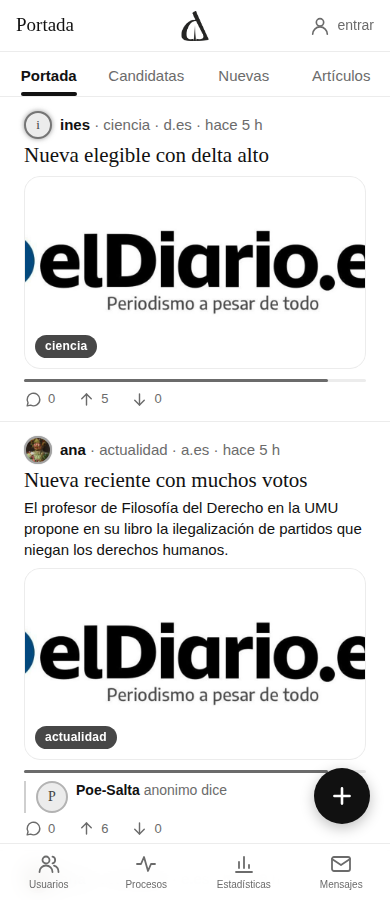
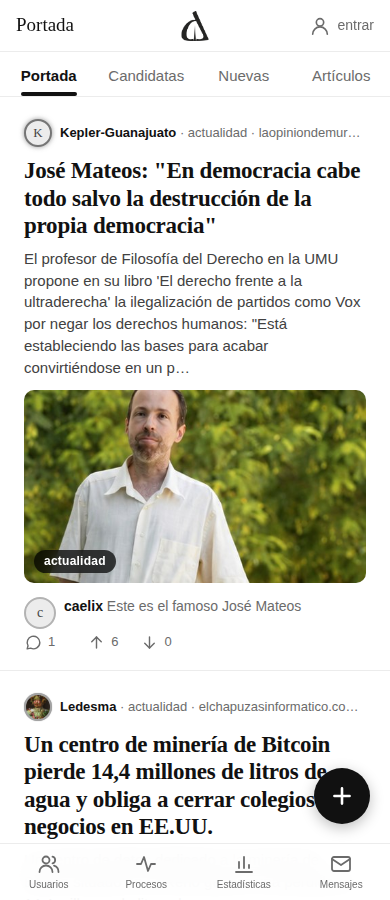
skins2

diff --git a/public/css/ddd.css b/public/css/ddd.css
@@ -285,26 +285,40 @@ main > .composer:last-of-type { border-bottom: 0; border-top: 1px solid var(--li
 
 /* =====================================================================
    PLANTILLAS VISUALES  (html[data-skin=...])  — elegibles en /perfil.php
-   La base (todo lo de arriba) es «editorial»; las demas la sobrescriben.
+   La base (todo lo de arriba) es la version original; las cuatro la modulan
+   en densidad, jerarquia y forma de separar una noticia de otra.
    ===================================================================== */
-.dval { display: none; }                       /* δ en vivo: solo lo muestra Delta */
+.dval { display: none; }
 form.plain .hint { font-size: 12px; color: var(--muted); margin-top: -4px; }
 form.plain .hint a { text-decoration: underline; text-underline-offset: 2px; }
 
-/* ---- Editorial: la clasica con mas aire a los lados ---- */
-[data-skin="editorial"] .post.full, [data-skin="editorial"] .post.compact { padding: 14px 24px 12px; }
-[data-skin="editorial"] .post.full h2 { font-size: 21px; }
-[data-skin="editorial"] .fz, [data-skin="editorial"] .notice, [data-skin="editorial"] .end, [data-skin="editorial"] .hilo .post.main { padding-left: 24px; padding-right: 24px; }
-[data-skin="editorial"] .notice { margin-left: 24px; margin-right: 24px; padding-left: 14px; padding-right: 14px; }
+/* ---- EDITORIAL: revista. Sin rayas ni fichas tecnicas; espacio, titular serif
+        grande, una sola linea secundaria, foto limpia ---- */
+[data-skin="editorial"] .post.full, [data-skin="editorial"] .post.compact { padding: 22px 24px 18px; border-bottom: 0; }
+[data-skin="editorial"] .post.full:hover, [data-skin="editorial"] .post.compact:hover { background: transparent; }
+[data-skin="editorial"] .post.full + .post, [data-skin="editorial"] .post.compact + .post { border-top: 1px solid var(--line); }
+[data-skin="editorial"] .post .l1 { font-size: 13px; color: var(--muted); line-height: 28px; }
+[data-skin="editorial"] .post .l1 b { font-weight: 600; color: var(--fg); }
+[data-skin="editorial"] .post h2 { font-size: 23px; font-weight: 600; line-height: 1.2; letter-spacing: -.01em; margin: 10px 0 8px; clear: left; }
+[data-skin="editorial"] .post.compact h2 { font-size: 19px; }
+[data-skin="editorial"] .lead { font-size: 15px; line-height: 1.45; color: color-mix(in srgb, var(--fg) 80%, var(--bg)); margin-bottom: 12px; }
+[data-skin="editorial"] .media { border-radius: 10px; border: 0; margin: 12px 0 14px; }
+[data-skin="editorial"] .post.full .life, [data-skin="editorial"] .post.compact .life { display: none; }   /* la barra de vida, fuera: queda el «muere en» del hilo */
+[data-skin="editorial"] .actions { gap: 32px; margin-top: 4px; font-size: 13px; }
+[data-skin="editorial"] .peek { border-left: 0; padding-left: 0; margin: 12px 0 4px; color: var(--muted); }
+[data-skin="editorial"] .delta { margin-top: 6px; }
+[data-skin="editorial"] .fz, [data-skin="editorial"] .end { padding-left: 24px; padding-right: 24px; }
+[data-skin="editorial"] .notice { margin-left: 24px; margin-right: 24px; }
+[data-skin="editorial"] .hilo .post.main { padding-left: 24px; padding-right: 24px; }
 
-/* ---- Comunidad: tarjetas sobre fondo gris, la gente por delante ---- */
+/* ---- COMUNIDAD (social): tarjetas blancas sobre gris, la gente por delante ---- */
 [data-skin="comunidad"] { --card: var(--bg); }
 [data-skin="comunidad"] body { background: color-mix(in srgb, var(--fg) 5%, var(--bg)); }
 [data-skin="comunidad"] .shell { background: transparent; border-color: transparent; }
 [data-skin="comunidad"] header.top, [data-skin="comunidad"] nav.tabs-top { background: var(--card); }
 [data-skin="comunidad"] .post.full, [data-skin="comunidad"] .post.compact {
   background: var(--card); border: 0; border-radius: 18px; margin: 12px 12px 0; padding: 16px 16px 12px;
-  box-shadow: 0 1px 2px color-mix(in srgb, var(--fg) 8%, transparent), 0 6px 20px color-mix(in srgb, var(--fg) 5%, transparent); }
+  box-shadow: 0 1px 2px color-mix(in srgb, var(--fg) 6%, transparent), 0 6px 18px color-mix(in srgb, var(--fg) 4%, transparent); }
 [data-skin="comunidad"] .post.full:hover, [data-skin="comunidad"] .post.compact:hover { background: var(--card); }
 [data-skin="comunidad"] .post.full > .av, [data-skin="comunidad"] .post.compact > .av,
 [data-skin="comunidad"] .post.full > .avl .av, [data-skin="comunidad"] .post.compact > .avl .av { width: 46px; height: 46px; font-size: 20px; margin-right: 12px; }
@@ -314,6 +328,7 @@ form.plain .hint a { text-decoration: underline; text-underline-offset: 2px; }
 [data-skin="comunidad"] .post h2 { font-family: var(--sans); font-weight: 700; letter-spacing: -.01em; font-size: 20px; margin-top: 10px; clear: left; }
 [data-skin="comunidad"] .post.compact h2 { font-size: 18px; }
 [data-skin="comunidad"] .media { border-radius: 14px; }
+[data-skin="comunidad"] .post .life { display: none; }
 [data-skin="comunidad"] .actions { gap: 26px; font-size: 14px; margin-top: 8px; }
 [data-skin="comunidad"] .actions .i { width: 21px; height: 21px; }
 [data-skin="comunidad"] .peek { border: 0; margin: 10px 0 0; padding: 10px 12px; border-radius: 12px; background: color-mix(in srgb, var(--fg) 5%, var(--bg)); }
@@ -324,60 +339,67 @@ form.plain .hint a { text-decoration: underline; text-underline-offset: 2px; }
 [data-skin="comunidad"] .fz:first-of-type { border-top-left-radius: 18px; border-top-right-radius: 18px; margin-top: 12px; }
 [data-skin="comunidad"] .dock, [data-skin="comunidad"] footer.inflow { background: var(--card); }
 
-/* ---- Delta: la identidad grafica. Espiga de Dirac como regla, δ a la vista,
-        cantos rectos, fotos en gris que cobran color al pasar ---- */
-[data-skin="delta"] { --mono: ui-monospace, SFMono-Regular, Menlo, Consolas, monospace; }
-[data-skin="delta"] .post.full, [data-skin="delta"] .post.compact { position: relative; padding: 18px 16px 14px 22px; border-bottom: 1px solid var(--fg); }
-[data-skin="delta"] .post.full::before, [data-skin="delta"] .post.compact::before {   /* la espiga */
-  content: ""; position: absolute; left: 10px; top: 18px; bottom: 14px; width: 2px;
-  background: linear-gradient(to bottom, var(--fg) 0, var(--fg) 34%, transparent 100%); }
-[data-skin="delta"] .post .l1 { font-family: var(--mono); font-size: 11px; letter-spacing: .04em; text-transform: uppercase; }
-[data-skin="delta"] .post .l1 b { font-weight: 700; }
-[data-skin="delta"] .post.full > .av, [data-skin="delta"] .post.compact > .av, [data-skin="delta"] .post.full > .avl .av, [data-skin="delta"] .post.compact > .avl .av { border-radius: 0; width: 26px; height: 26px; font-size: 13px; }
-[data-skin="delta"] .post .dval { display: block; position: absolute; right: 16px; top: 14px; font-family: var(--mono); font-size: 19px; font-weight: 700; letter-spacing: -.03em; line-height: 1; }
-[data-skin="delta"] .post.full .l1, [data-skin="delta"] .post.compact .l1 { padding-right: 72px; }
-[data-skin="delta"] .post h2 { font-size: 24px; line-height: 1.12; letter-spacing: -.015em; margin: 10px 0 6px; }
+/* ---- DELTA: publicacion impresa. Fondo crema, casi monocromo (gris y crema;
+        el negro solo para logo, autores y titulares), sin cajas ni sombras,
+        separacion por espacio y una linea finisima, un unico acento verde
+        (voto positivo, subrayado de la pestaña activa, «+») ---- */
+[data-skin="delta"] { --bg: #f5efe3; --fg: #171614; --muted: #7d766a; --line: #e4dccb; --line2: #cdc4ae; --hover: #f0e9da; --accent: #2f6b3f; --life: #2f6b3f; --halo: #4a453c; --neg: #8a8378; color-scheme: light; }
+@media (prefers-color-scheme: dark) {
+  [data-skin="delta"]:not([data-theme="light"]) { --bg: #171512; --fg: #ece5d6; --muted: #948b7b; --line: #2a2723; --line2: #3b3730; --hover: #1d1a16; --accent: #7fb88d; --life: #7fb88d; --halo: #c9c0ad; --neg: #948b7b; color-scheme: dark; --logo-l: none; --logo-d: block; --ink-invert: 1; }
+}
+[data-skin="delta"][data-theme="dark"] { --bg: #171512; --fg: #ece5d6; --muted: #948b7b; --line: #2a2723; --line2: #3b3730; --hover: #1d1a16; --accent: #7fb88d; --life: #7fb88d; --halo: #c9c0ad; --neg: #948b7b; color-scheme: dark; --logo-l: none; --logo-d: block; --ink-invert: 1; }
+[data-skin="delta"] .shell { border-color: transparent; }
+[data-skin="delta"] header.top { border-bottom: 0; background: color-mix(in srgb, var(--bg) 88%, transparent); }
+[data-skin="delta"] nav.tabs-top { border-bottom: 1px solid var(--line); }
+[data-skin="delta"] nav.tabs-top a { font-family: var(--serif); font-size: 16px; }
+[data-skin="delta"] nav.tabs-top a.on { font-weight: 600; }
+[data-skin="delta"] nav.tabs-top a.on::after { background: var(--accent); height: 3px; }
+[data-skin="delta"] .post.full, [data-skin="delta"] .post.compact { padding: 22px 20px 16px; border-bottom: 1px solid var(--line); }
+[data-skin="delta"] .post.full:hover, [data-skin="delta"] .post.compact:hover { background: transparent; }
+[data-skin="delta"] .post .l1 { font-size: 13px; color: var(--muted); }
+[data-skin="delta"] .post .l1 b { color: var(--fg); font-weight: 600; }
+[data-skin="delta"] .post.full > .av, [data-skin="delta"] .post.compact > .av, [data-skin="delta"] .post.full > .avl .av, [data-skin="delta"] .post.compact > .avl .av { background: transparent; border-color: var(--line2); color: var(--muted); box-shadow: none; }
+[data-skin="delta"] .post h2 { font-size: 25px; font-weight: 500; line-height: 1.15; letter-spacing: -.012em; margin: 10px 0 8px; clear: left; }
 [data-skin="delta"] .post.compact h2 { font-size: 20px; }
-[data-skin="delta"] .lead { font-size: 14px; color: var(--muted); }
-[data-skin="delta"] .media { border-radius: 0; border: 0; margin: 10px 0 12px; }
-[data-skin="delta"] .media .pic { filter: grayscale(1) contrast(1.08); transition: filter .35s ease; }
-[data-skin="delta"] .post:hover .media .pic { filter: none; }
-[data-skin="delta"] .tag, [data-skin="delta"] .media .tag { border-radius: 0; background: var(--fg); color: var(--bg); font-family: var(--mono); font-size: 11px; letter-spacing: .08em; text-transform: uppercase; left: 0; bottom: 0; padding: 5px 10px; backdrop-filter: none; }
-[data-skin="delta"] .life { border-radius: 0; background: color-mix(in srgb, var(--fg) 12%, var(--bg)); }
-[data-skin="delta"] .life span { border-radius: 0; background: var(--fg); }
-[data-skin="delta"] .actions { font-family: var(--mono); font-size: 12px; gap: 26px; }
-[data-skin="delta"] .peek { border-left: 2px solid var(--fg); }
-[data-skin="delta"] .pk .av { border-radius: 0; }
-[data-skin="delta"] .delta { color: var(--fg); }
-[data-skin="delta"] nav.tabs-top a { font-family: var(--mono); font-size: 12px; letter-spacing: .08em; text-transform: uppercase; }
-[data-skin="delta"] nav.tabs-top a.on::after { height: 2px; border-radius: 0; width: 100%; }
-[data-skin="delta"] nav.tabs-bottom a { font-family: var(--mono); font-size: 9px; letter-spacing: .06em; text-transform: uppercase; }
-[data-skin="delta"] .notice, [data-skin="delta"] .error { border-radius: 0; border-left: 2px solid var(--fg); background: transparent; margin-left: 22px; padding-left: 10px; }
-[data-skin="delta"] .fab { border-radius: 0; }
-[data-skin="delta"] .fz { padding-left: 22px; }
-[data-skin="delta"] .fz .av, [data-skin="delta"] .av.mini, [data-skin="delta"] .composer .av, [data-skin="delta"] .post.reply .av, [data-skin="delta"] .profile .av { border-radius: 0; }
-[data-skin="delta"] .msg .bubble, [data-skin="delta"] .newmsg input, [data-skin="delta"] .newmsg button, [data-skin="delta"] .composer button, [data-skin="delta"] form.plain input, [data-skin="delta"] form.plain select, [data-skin="delta"] form.plain button { border-radius: 0; }
+[data-skin="delta"] .lead { color: var(--muted); font-size: 15px; line-height: 1.45; margin-bottom: 12px; }
+[data-skin="delta"] .media { border: 0; border-radius: 8px; margin: 12px 0 12px; }
+[data-skin="delta"] .tag, [data-skin="delta"] .media .tag { font-size: 10px; padding: 2px 8px; font-weight: 600; letter-spacing: .04em; background: rgba(23,22,20,.62); }
+[data-skin="delta"] .post .life { display: none; }
+[data-skin="delta"] .actions { gap: 30px; color: var(--muted); }
+[data-skin="delta"] .actions .vote button[value="1"], [data-skin="delta"] .actions .vote > span:first-child, [data-skin="delta"] .stats .vote button[value="1"], [data-skin="delta"] .stats .vote > span:first-child { color: var(--accent); font-weight: 600; }
+[data-skin="delta"] .actions .vote button[value="-1"], [data-skin="delta"] .actions .vote > span:last-child { color: var(--neg); }
+[data-skin="delta"] .peek { border-left: 1px solid var(--line2); color: var(--muted); }
+[data-skin="delta"] .pk b { color: var(--fg); }
+[data-skin="delta"] .fab { background: var(--accent); color: #fff; }
+[data-skin="delta"] .notice { background: color-mix(in srgb, var(--fg) 5%, var(--bg)); }
+[data-skin="delta"] .composer button, [data-skin="delta"] form.plain button { background: var(--accent); color: #fff; }
+[data-skin="delta"] .dock { background: color-mix(in srgb, var(--bg) 94%, transparent); border-color: var(--line); }
+[data-skin="delta"] nav.tabs-bottom a.on { color: var(--accent); }
+[data-skin="delta"] .delta { color: var(--muted); }
+[data-skin="delta"] .msg.me .bubble { background: var(--accent); border-color: var(--accent); color: #fff; }
 
-/* ---- Flujo: foto al lado, mas noticias por pantalla ---- */
+/* ---- FLUJO (compacta): miniatura a la derecha, cuatro o cinco noticias por
+        pantalla, sin comentario destacado ni controles secundarios ---- */
 [data-skin="flujo"] .post.full, [data-skin="flujo"] .post.compact {
-  display: grid; grid-template-columns: 26px minmax(0, 1fr) 112px; column-gap: 10px; row-gap: 0; align-items: start;
-  grid-template-areas: "av l1 l1" "h2 h2 media" "lead lead media" "delta delta media" "life life life" "peek peek peek" "actions actions actions";
-  padding: 10px 16px 8px; }
+  display: grid; grid-template-columns: 22px minmax(0, 1fr) 120px; column-gap: 10px; row-gap: 0; align-items: start;
+  grid-template-areas: "av l1 l1" "h2 h2 media" "lead lead media" "delta delta media" "actions actions actions";
+  padding: 10px 16px 8px; border-bottom: 1px solid var(--line); }
+[data-skin="flujo"] .post.full:hover, [data-skin="flujo"] .post.compact:hover { background: transparent; }
 [data-skin="flujo"] .post.full .pc, [data-skin="flujo"] .post.compact .pc { display: contents; }
 [data-skin="flujo"] .post.full > .av, [data-skin="flujo"] .post.compact > .av, [data-skin="flujo"] .post.full > .avl, [data-skin="flujo"] .post.compact > .avl { grid-area: av; float: none; margin: 0; }
-[data-skin="flujo"] .post.full > .av, [data-skin="flujo"] .post.compact > .av, [data-skin="flujo"] .post.full > .avl .av, [data-skin="flujo"] .post.compact > .avl .av { width: 26px; height: 26px; font-size: 12px; }
-[data-skin="flujo"] .post.full .l1, [data-skin="flujo"] .post.compact .l1 { grid-area: l1; line-height: 26px; min-height: 26px; font-size: 14px; }
-[data-skin="flujo"] .post.full h2, [data-skin="flujo"] .post.compact h2 { grid-area: h2; font-size: 18px; margin: 6px 0 2px; }
+[data-skin="flujo"] .post.full > .av, [data-skin="flujo"] .post.compact > .av, [data-skin="flujo"] .post.full > .avl .av, [data-skin="flujo"] .post.compact > .avl .av { width: 22px; height: 22px; font-size: 11px; border-width: 1px; box-shadow: none; }
+[data-skin="flujo"] .post.full .l1, [data-skin="flujo"] .post.compact .l1 { grid-area: l1; line-height: 22px; min-height: 22px; font-size: 13px; color: var(--muted); }
+[data-skin="flujo"] .post .l1 b { font-weight: 600; color: var(--fg); }
+[data-skin="flujo"] .post.full h2, [data-skin="flujo"] .post.compact h2 { grid-area: h2; font-size: 18px; line-height: 1.22; margin: 6px 0 3px; }
 [data-skin="flujo"] .post.compact h2 { font-size: 17px; }
-[data-skin="flujo"] .post .lead { grid-area: lead; font-size: 14px; margin: 0 0 4px; }
-[data-skin="flujo"] .post .media, [data-skin="flujo"] .post .media.sm { grid-area: media; width: 112px; aspect-ratio: 1; margin: 6px 0 0; border-radius: 12px; align-self: start; }
+[data-skin="flujo"] .post .lead { grid-area: lead; font-size: 14px; line-height: 1.38; color: var(--muted); margin: 0 0 4px;
+  display: -webkit-box; -webkit-line-clamp: 3; -webkit-box-orient: vertical; overflow: hidden; }
+[data-skin="flujo"] .post .media, [data-skin="flujo"] .post .media.sm { grid-area: media; width: 120px; aspect-ratio: 4 / 3; margin: 6px 0 0; border-radius: 10px; align-self: start; }
 [data-skin="flujo"] .post .media .tag { left: 6px; bottom: 6px; font-size: 10px; padding: 2px 7px; max-width: calc(100% - 12px); overflow: hidden; text-overflow: ellipsis; white-space: nowrap; }
 [data-skin="flujo"] .post .delta { grid-area: delta; }
-[data-skin="flujo"] .post .life { grid-area: life; margin: 6px 0 4px; }
-[data-skin="flujo"] .post .peek { grid-area: peek; margin: 4px 0 2px; }
-[data-skin="flujo"] .post .actions { grid-area: actions; margin-top: 4px; }
-[data-skin="flujo"] .post .dval { display: none; }
+[data-skin="flujo"] .post .life, [data-skin="flujo"] .post .peek, [data-skin="flujo"] .post .dval { display: none; }
+[data-skin="flujo"] .post .actions { grid-area: actions; margin-top: 4px; font-size: 13px; gap: 20px; }
 @media (max-width: 400px) {
-  [data-skin="flujo"] .post.full, [data-skin="flujo"] .post.compact { grid-template-columns: 26px minmax(0, 1fr) 96px; }
-  [data-skin="flujo"] .post .media, [data-skin="flujo"] .post .media.sm { width: 96px; }
+  [data-skin="flujo"] .post.full, [data-skin="flujo"] .post.compact { grid-template-columns: 22px minmax(0, 1fr) 104px; }
+  [data-skin="flujo"] .post .media, [data-skin="flujo"] .post .media.sm { width: 104px; }
 }

diff --git a/lib/app.php b/lib/app.php
@@ -14,7 +14,7 @@ date_default_timezone_set('Europe/Madrid');
 define('DDD_ROOT', dirname(__DIR__));
 define('DDD_MEDIA_DIR', DDD_ROOT . '/public/media');
 define('DDD_SESSION', 'ddd_s');
-define('DDD_CSS_VER', 36);   // subir al cambiar ddd.css
+define('DDD_CSS_VER', 37);   // subir al cambiar ddd.css
 
 /* ---- credenciales fuera del repo ---------------------------------- */
 $ini = @parse_ini_file('/etc/deltha/config.ini', true);
